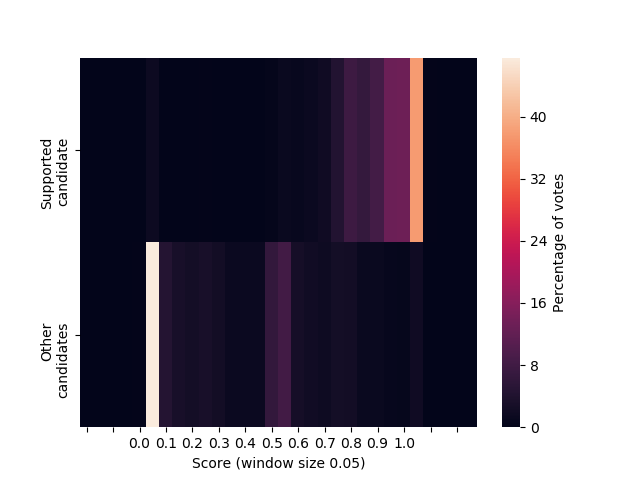
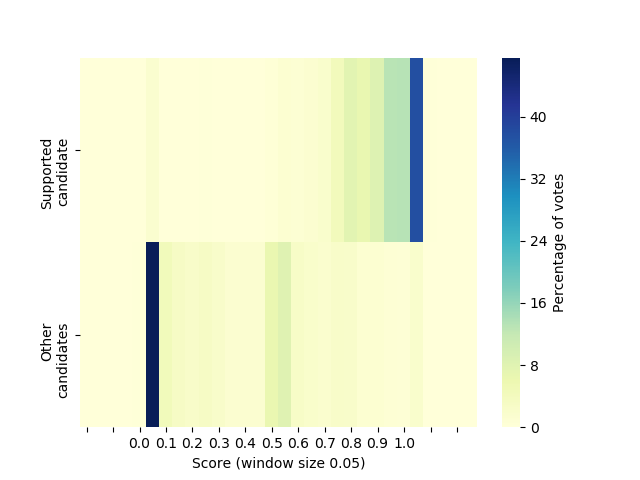
Change od source to split between python na js plus change of color pallet for seaborn heatmap of GI_score_range

diff --git a/source/python/GI_approved_together.py b/source/python/GI_approved_together.py
@@ -2,16 +2,15 @@
 This code covers question:
 -- Which candidates are approved together? --
 '''
-import math
 import itertools
 from collections import defaultdict
 
-import pandas as pd
-import numpy as np
-from sklearn import manifold
 import matplotlib.pyplot as plt
+import numpy as np
+import pandas as pd
+from sklearn import manifold
 
-from source.utils import load_data, load_meta_data, hex_color
+from source.python.utils import load_data, load_meta_data, hex_color
 
 data = load_data()
 meta = load_meta_data()
@@ -32,11 +31,11 @@ for index, row in data_av.iterrows():
         count_df[c[0]][c[1]] += 1
         count_df[c[1]][c[0]] += 1
 max_v = count_df.max().max()
-dist_df = count_df.applymap(lambda x: x / max_v)\
-                  .applymap(lambda x: 2 *np.log(-x + 1.1) + 5 if x != 0 else np.nan)
+dist_df = count_df.applymap(lambda x: x / max_v) \
+    .applymap(lambda x: 2 * np.log(-x + 1.1) + 5 if x != 0 else np.nan)
 dist_matrix = dist_df.fillna(10 * dist_df.max().max()).as_matrix()
 space = pd.DataFrame(manifold.TSNE(2, 4, metric='precomputed').fit_transform(dist_matrix),
-                     #manifold.MDS(2, 2, metric='precomputed').fit_transform(dist_matrix),
+                     # manifold.MDS(2, 2, metric='precomputed').fit_transform(dist_matrix),
                      columns=['x', 'y'],
                      index=[meta[x]['name'] for x in candidates])
 space['short'] = candidates
@@ -50,7 +49,6 @@ ax.scatter(space.x,
            s=100,
            alpha=0.5)
 
-
 for index, row in space.iterrows():
     ax.annotate(index.replace(' ', '\n', 1),
                 xy=(row.x, row.y),
@@ -58,6 +56,4 @@ for index, row in space.iterrows():
 plt.axis('off')
 # plt.show()
 
-plt.savefig('../results/GI_approved_together.png')
-
-
+plt.savefig('../../results/GI_approved_together.png')

diff --git a/source/python/GI_score_range.py b/source/python/GI_score_range.py
@@ -7,7 +7,7 @@ import numpy as np
 import pandas as pd
 import seaborn as sns
 
-from source.utils import load_data, load_meta_data
+from source.python.utils import load_data, load_meta_data
 
 data = load_data()
 meta = load_meta_data()
@@ -40,19 +40,20 @@ z = [preferred_hist_per,
      not_preferred_hist_per]
 
 # Creating x labels
-x_labels = int(bins/12) * ['']
+x_labels = int(bins / 12) * ['']
 for x in range(10):
-    x_labels.append(str(round(x/10, 2)))
+    x_labels.append(str(round(x / 10, 2)))
     x_labels += int(bins * 1 / 30 - 1) * ['']
 x_labels.append(str(1.0))
-x_labels += int(bins/12 - 1) * ['']
+x_labels += int(bins / 12 - 1) * ['']
 
 ax = sns.heatmap(z,
-            cbar_kws={'label': 'Percentage of votes'})
+                 cbar_kws={'label': 'Percentage of votes'},
+                 cmap="YlGnBu")
 ax.set_xlabel('Score (window size 0.05)')
 ax.set_xticklabels(x_labels)
 ax.set_yticklabels(['Supported\ncandidate', 'Other\ncandidates'], rotation=90)
 # plt.show()
-plt.savefig('../results/GI_score_range.png')
+plt.savefig('../../results/GI_score_range.png')
 
 print('Done')

diff --git a/source/python/utils.py b/source/python/utils.py
@@ -1,4 +1,5 @@
 import os
+
 import numpy as np
 import pandas as pd
 
@@ -13,7 +14,7 @@ def files(path):
             yield file_path, file
 
 
-def load_data(data_folder='../data'):
+def load_data(data_folder='../../data'):
     dfs = []
     for file_path, file in files(data_folder):
         if file in DATA_FILES:
@@ -24,7 +25,8 @@ def load_data(data_folder='../data'):
     data = data.rename(columns=lambda x: x.strip())
     return data
 
-def load_meta_data(data_folder='../data'):
+
+def load_meta_data(data_folder='../../data'):
     meta_data_file = os.path.join(data_folder, META_DATA_FILE)
     meta = pd.read_csv(meta_data_file, sep=';').transpose()
     meta.columns = meta.iloc[0]
@@ -33,6 +35,7 @@ def load_meta_data(data_folder='../data'):
     meta = meta.rename(columns={np.nan: 'NA'})
     return meta
 
+
 def norm(numbers):
     min_n = np.min(numbers)
     numbers = numbers - min_n
@@ -40,5 +43,6 @@ def norm(numbers):
     numbers = numbers / max_n
     return numbers
 
+
 def hex_color(str):
-   return int(str, 16)
+    return int(str, 16)
